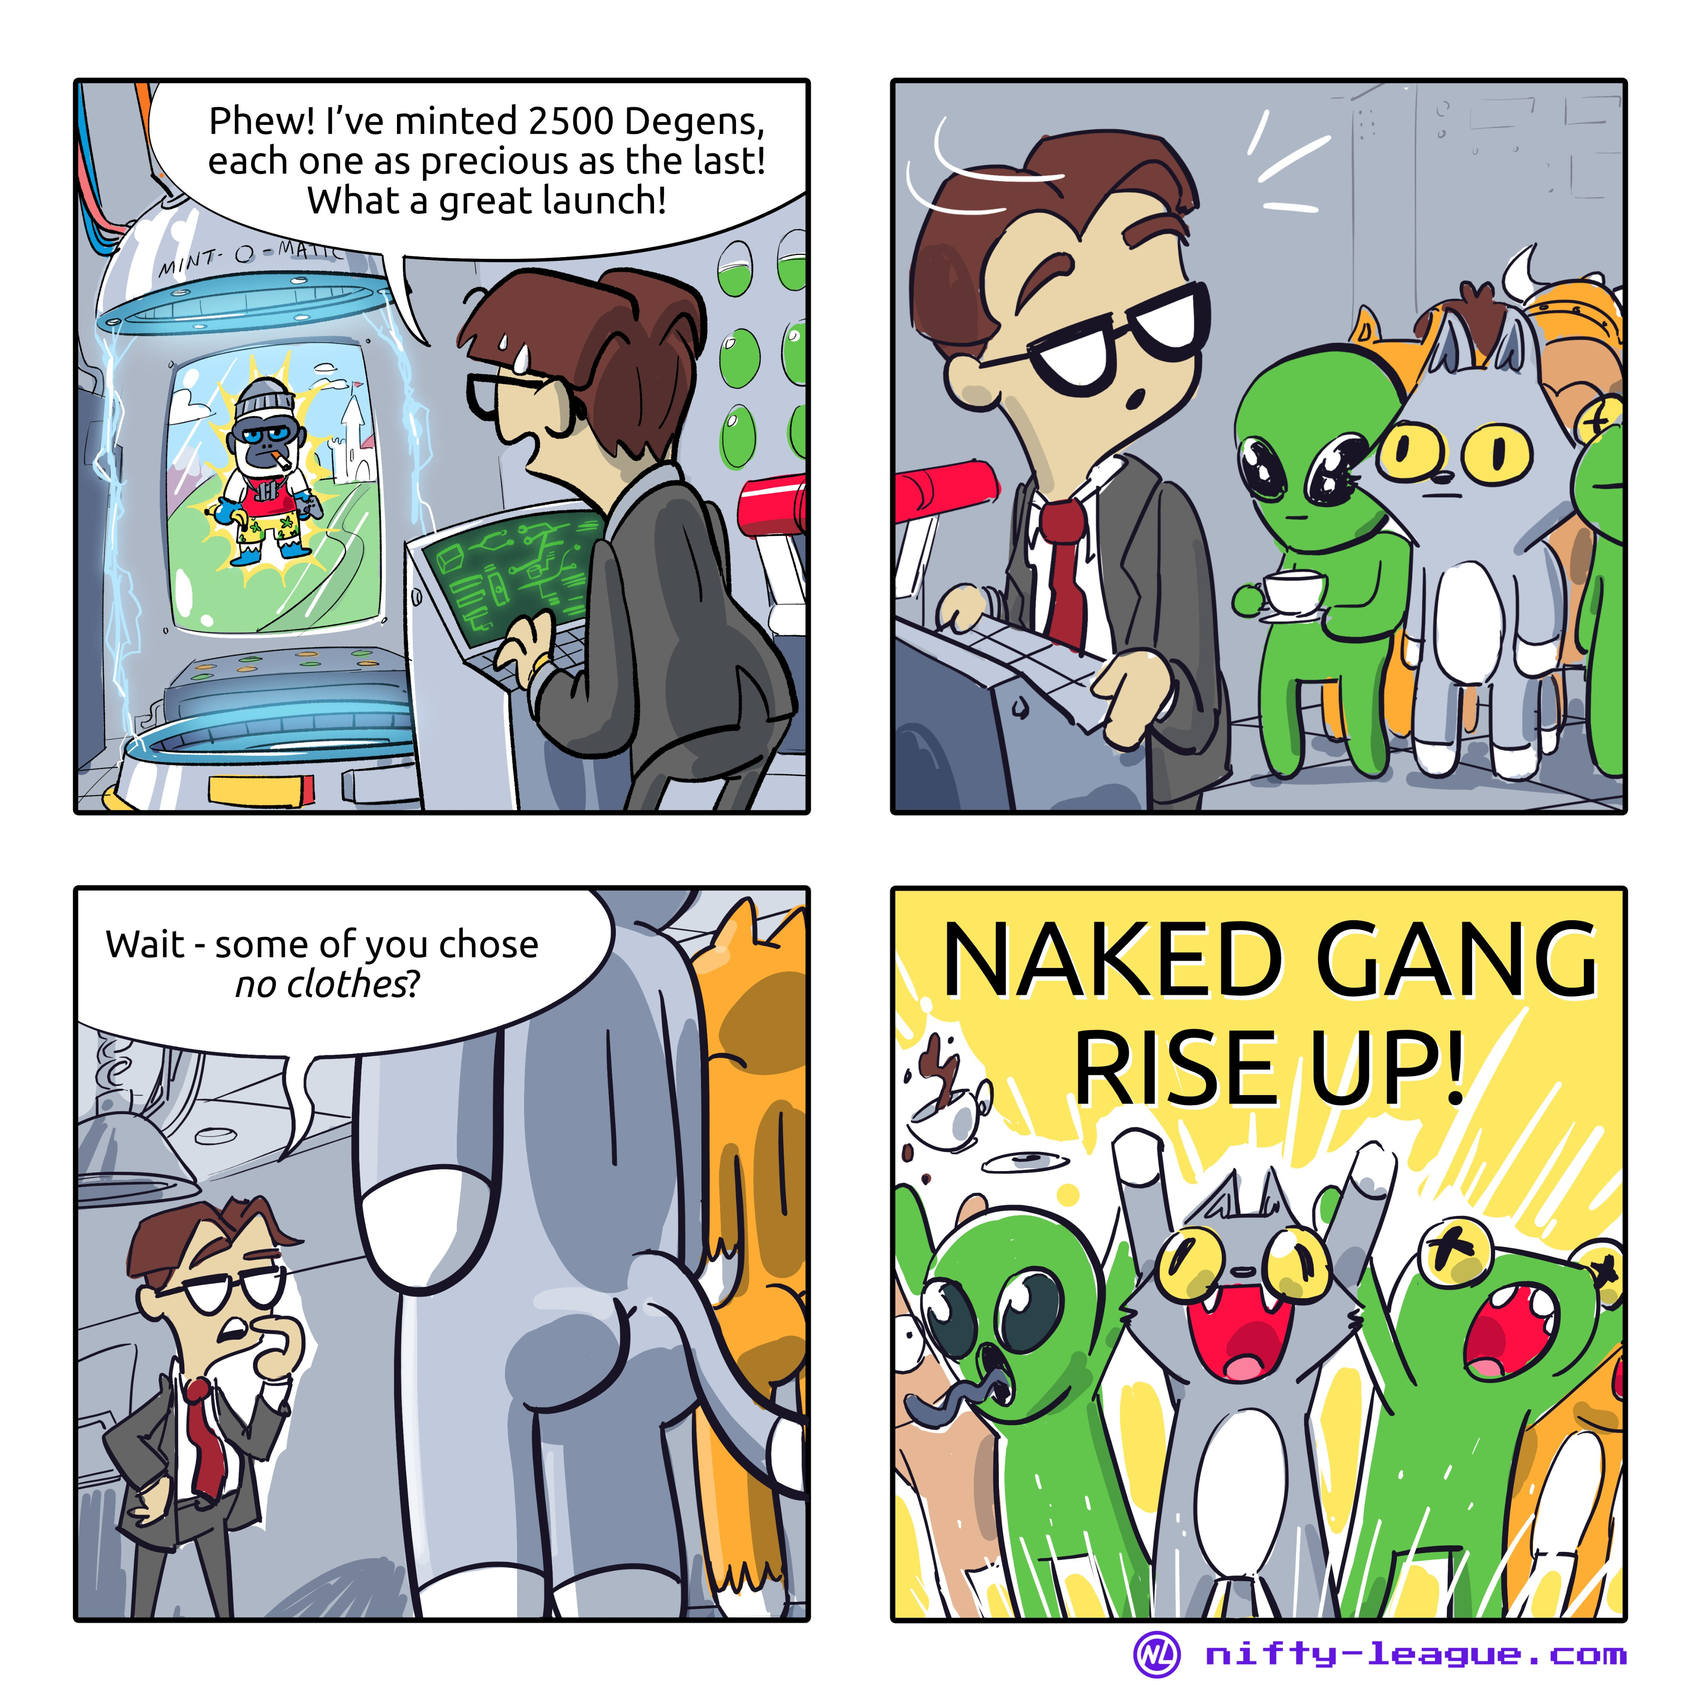
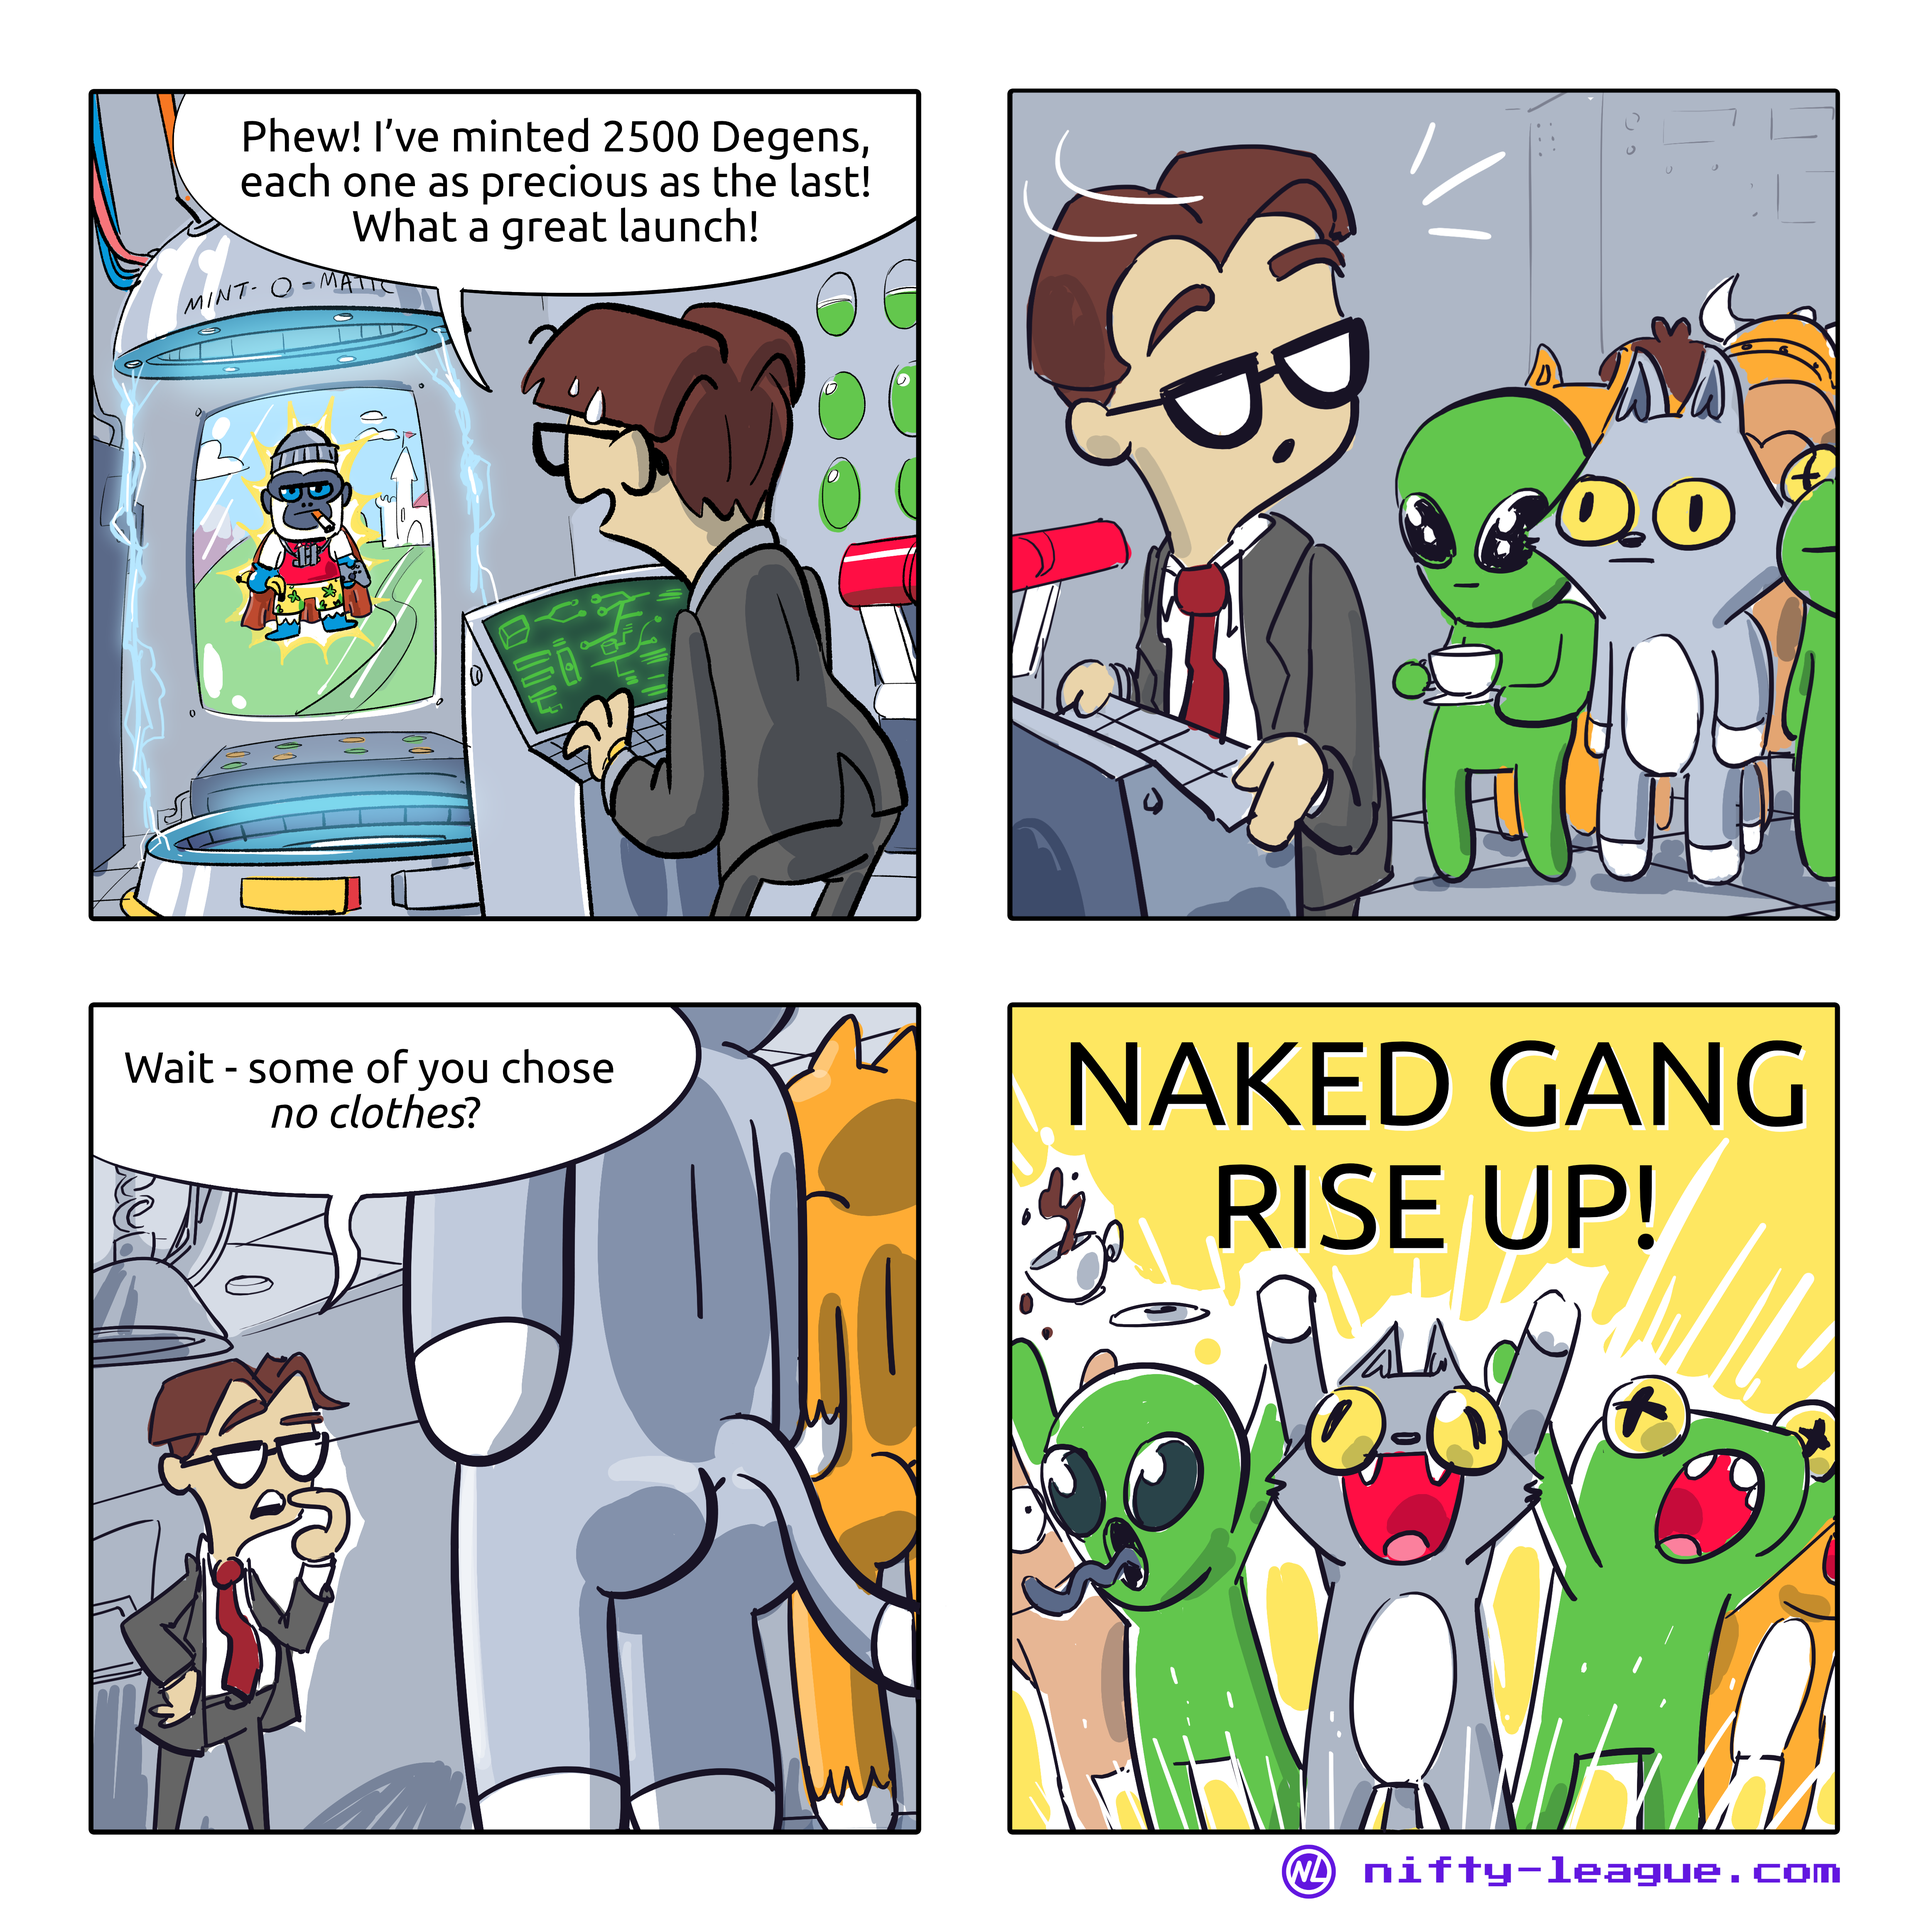
Add comic 4 and remove use of cachedSubgraph

diff --git a/packages/react-app/src/views/About.tsx b/packages/react-app/src/views/About.tsx
@@ -30,6 +30,7 @@ import Unknown from 'assets/images/characters/unknown.png';
 import ComicP1 from 'assets/images/comics/page1.png';
 import ComicP2 from 'assets/images/comics/page2.png';
 import ComicP3 from 'assets/images/comics/page3.png';
+import ComicP4 from 'assets/images/comics/page4.png';
 
 const { Title } = Typography;
 
@@ -223,9 +224,10 @@ const About = ({ width }: { width: Breakpoint }): JSX.Element => {
         </p>
         <div className="d-flex align-items-center flex-wrap" style={{ justifyContent: 'space-evenly' }}>
           <Image.PreviewGroup>
-            <Image className="p-2" width={isWidthDown('md', width, false) ? '50%' : '33%'} src={ComicP1} />
-            <Image className="p-2" width={isWidthDown('md', width, false) ? '50%' : '33%'} src={ComicP2} />
-            <Image className="p-2" width={isWidthDown('md', width, false) ? '50%' : '33%'} src={ComicP3} />
+            <Image className="p-2" width={isWidthDown('md', width, false) ? '50%' : '25%'} src={ComicP1} />
+            <Image className="p-2" width={isWidthDown('md', width, false) ? '50%' : '25%'} src={ComicP2} />
+            <Image className="p-2" width={isWidthDown('md', width, false) ? '50%' : '25%'} src={ComicP3} />
+            <Image className="p-2" width={isWidthDown('md', width, false) ? '50%' : '25%'} src={ComicP4} />
           </Image.PreviewGroup>
         </div>
         <br />

diff --git a/packages/react-app/src/views/Home/components/CharacterCreator/index.tsx b/packages/react-app/src/views/Home/components/CharacterCreator/index.tsx
@@ -4,7 +4,7 @@ import { isMobileOnly, isSafari, withOrientationChange } from 'react-device-dete
 import { BigNumber } from 'ethers';
 import MetaMaskOnboarding from '@metamask/onboarding';
 
-import { useCachedSubgraph, useRemovedTraits } from 'hooks';
+import { useRemovedTraits } from 'hooks';
 import { submitTxWithGasEstimate } from 'helpers/Notifier';
 import { NotifyCallback } from 'types/notify';
 import { NetworkContext } from 'NetworkProvider';
@@ -247,10 +247,10 @@ const CharacterCreator = memo(
 const CharacterCreatorContainer = memo(
   ({ isLoaded, isPortrait, setLoaded, setProgress }: CharacterCreatorContainerProps) => {
     const { address, loadWeb3Modal, tx, writeContracts } = useContext(NetworkContext);
-    const { nftPrice, totalSupply } = useCachedSubgraph();
     const [saleLocked, setSaleLocked] = useState(false);
     const [onboardUser, setOnboardUser] = useState(false);
     const [promptMetaMask, setPromptMetaMask] = useState(false);
+    const totalSupply = 9900;
 
     useEffect(() => {
       const count = totalSupply ?? 0;

diff --git a/packages/react-app/src/components/SaleProgress.tsx b/packages/react-app/src/components/SaleProgress.tsx
@@ -4,7 +4,6 @@ import { makeStyles } from '@material-ui/core/styles';
 import { LinearProgress, Typography } from '@material-ui/core';
 import InfoIcon from '@material-ui/icons/InfoOutlined';
 import MuiAlert from '@material-ui/lab/Alert';
-import { useCachedSubgraph } from 'hooks';
 import Tooltip from 'components/Tooltip';
 
 const useStyles = makeStyles(theme => ({
@@ -67,7 +66,6 @@ interface ProgressProps {
 
 const SaleProgress = memo(({ className, handleClose, smallScreen }: ProgressProps): JSX.Element => {
   const classes = useStyles();
-  // const { totalSupply } = useCachedSubgraph();
   const totalSupply = 9900;
   const progress = totalSupply ?? 0;
   const saleEnded = progress >= 9900;
